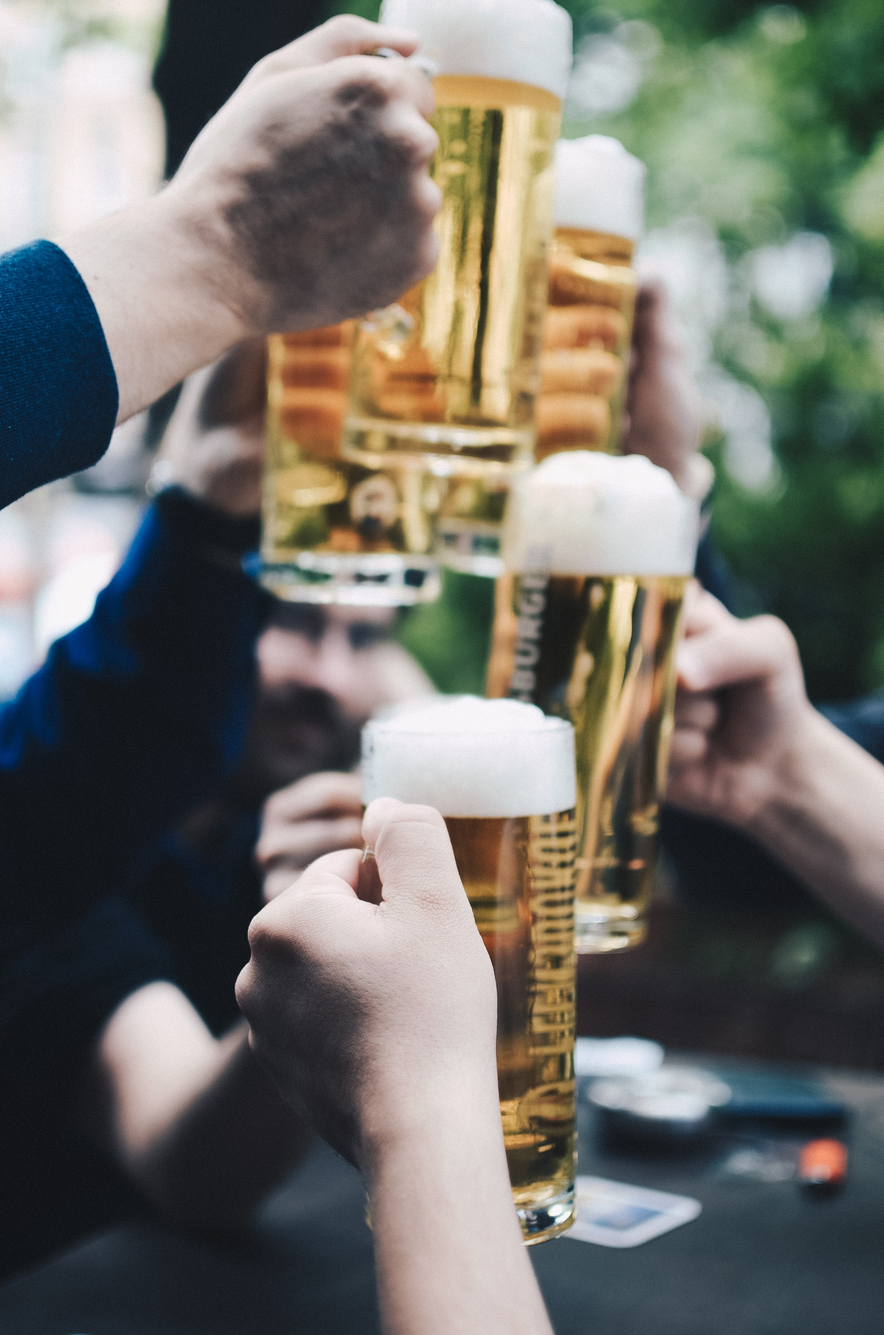
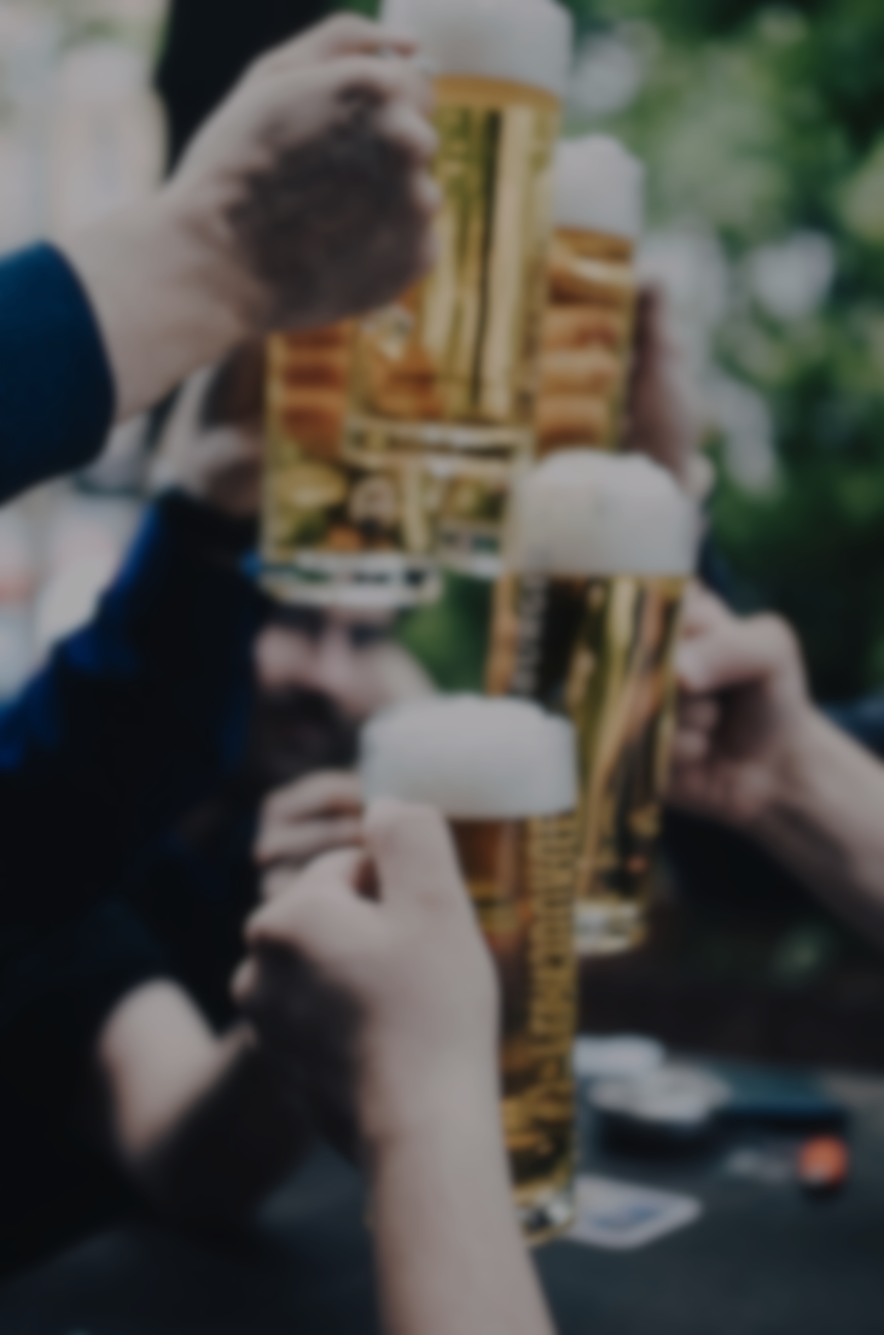
bg picture home

diff --git a/home.css b/home.css
@@ -6,8 +6,8 @@
 
 .hereos{
     background-image:url("assets/mobilebg.jpg") ;
-    backdrop-filter: blur(2px)
-    background-size: cover;
+    /* backdrop-filter: blur(-1px); */
+    background-size:cover;
     background-position: center;
     width: 100%;
     height:100vh;
@@ -31,6 +31,7 @@
     letter-spacing: 5px;
     padding:1.5rem;
     transition: 0.4s;
+
 }
 .title:hover{
     transform: scale(1.4);
